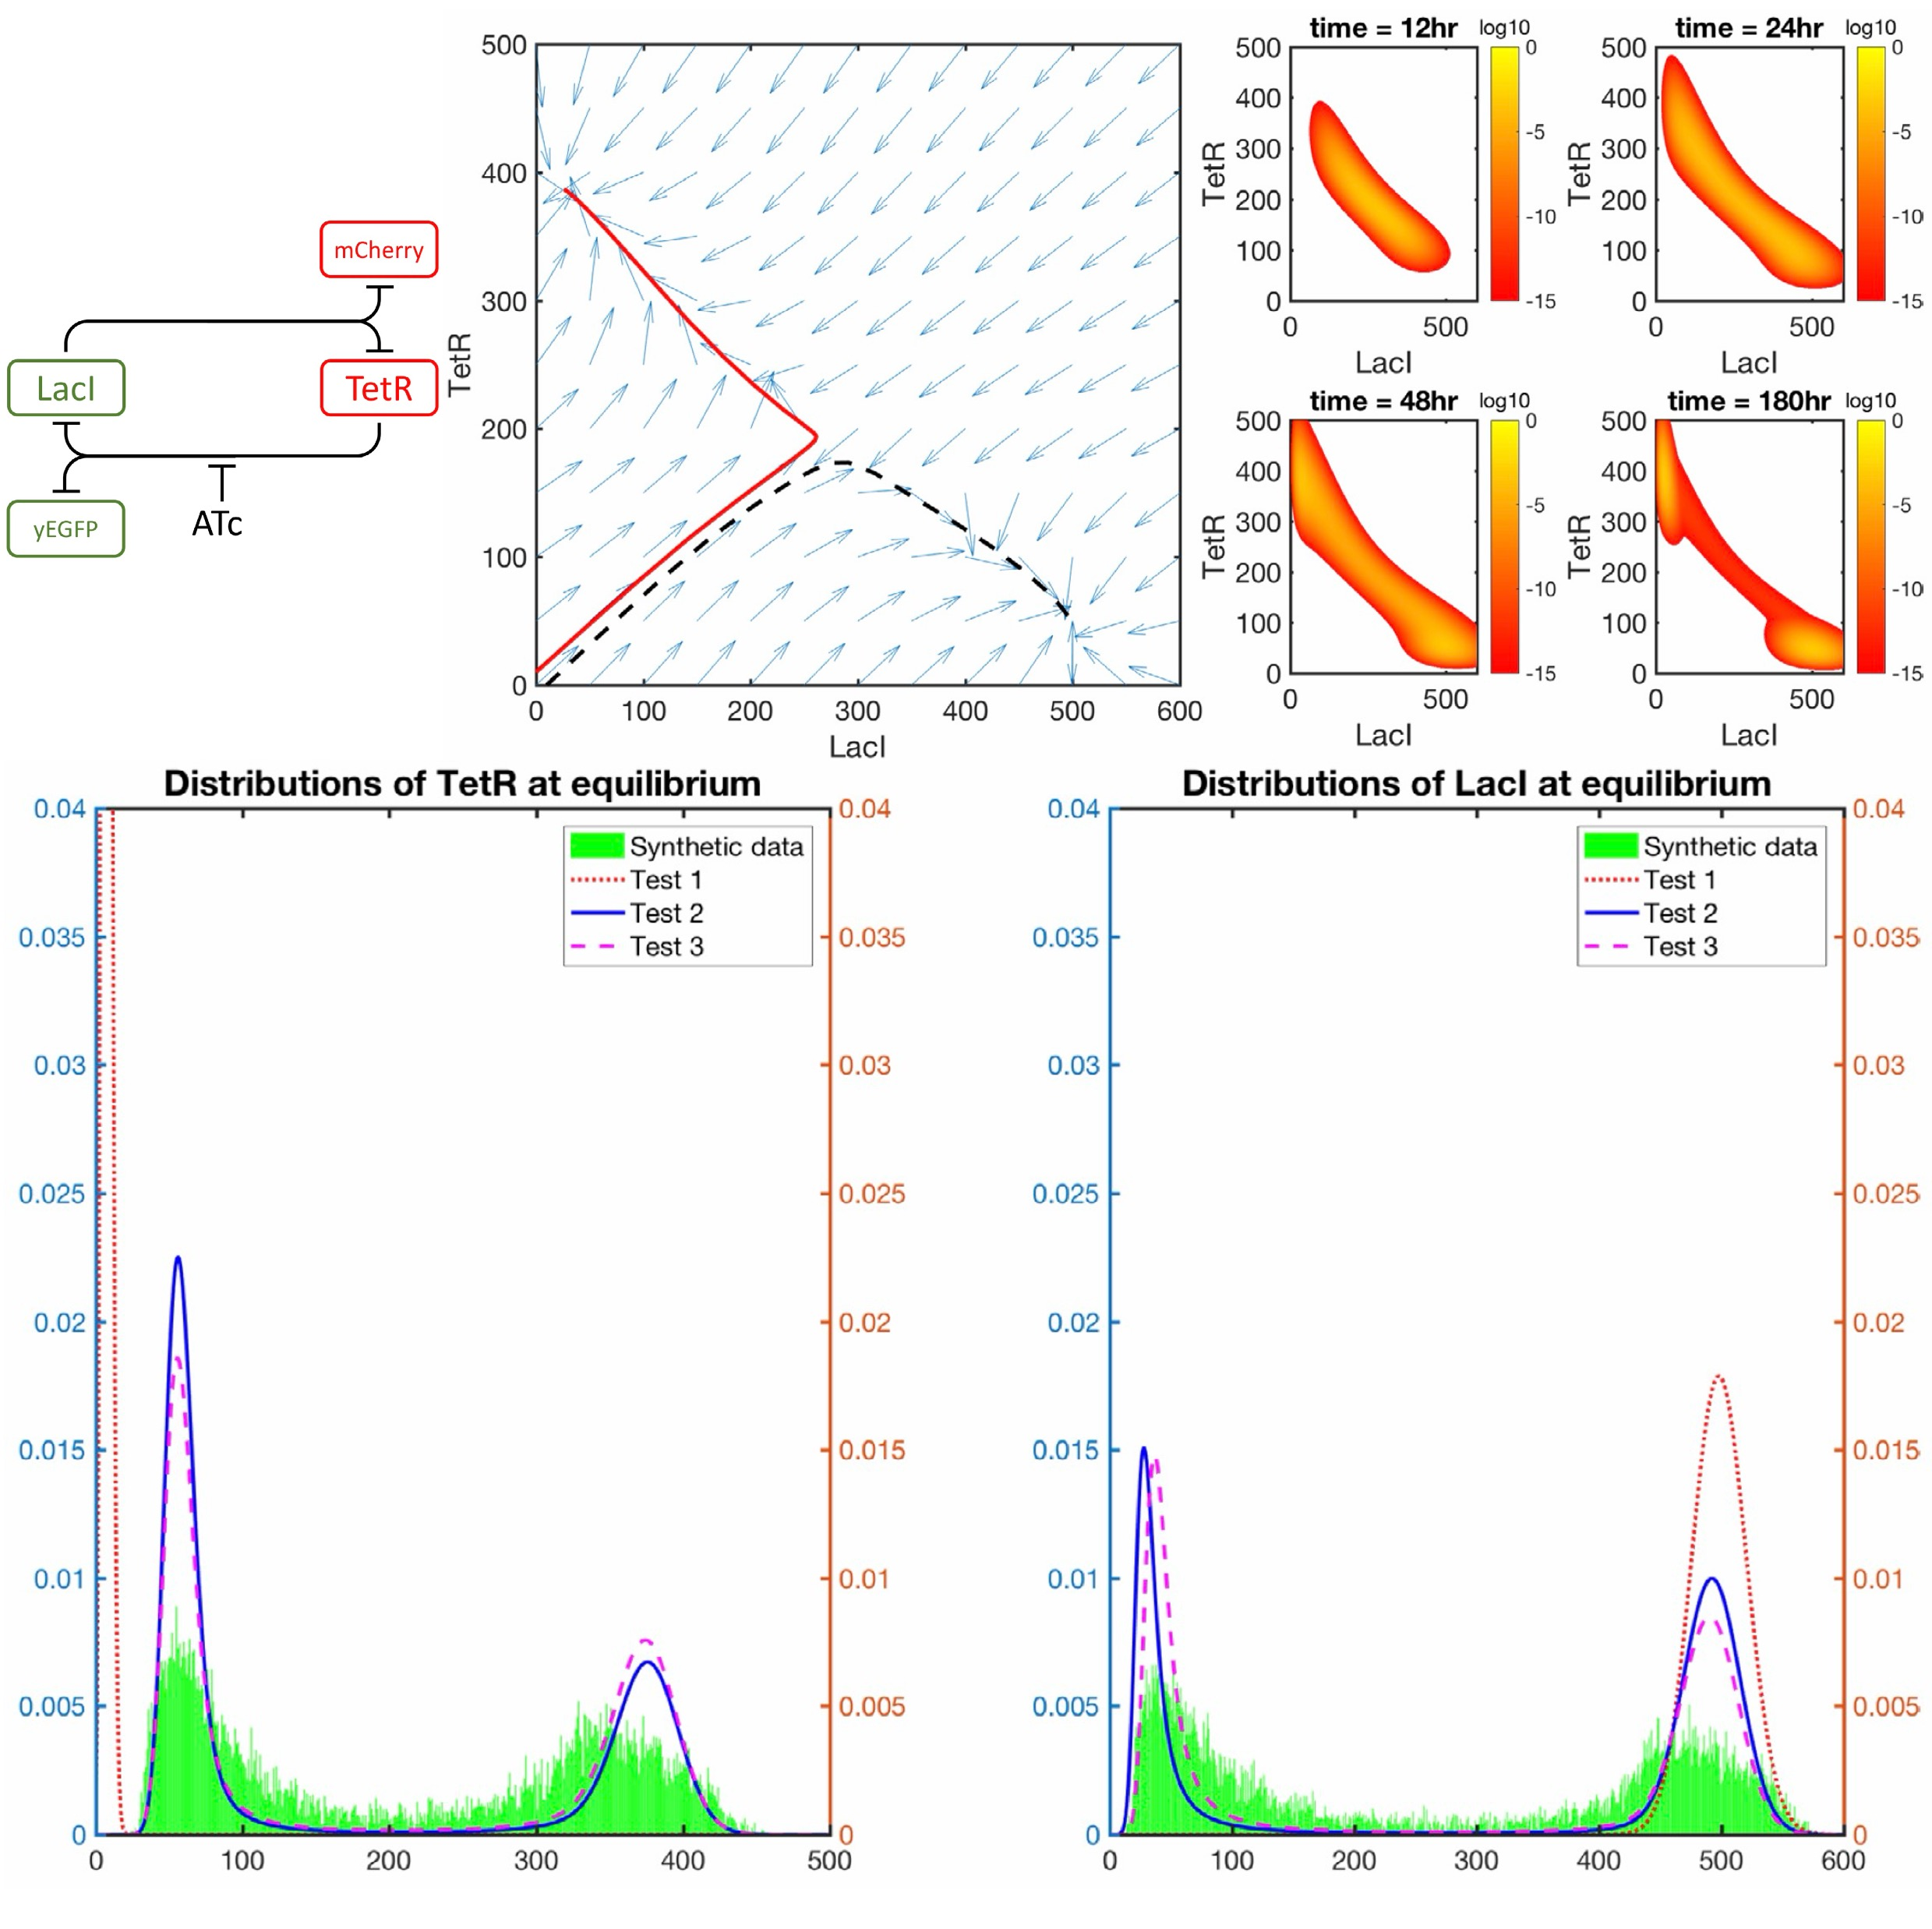
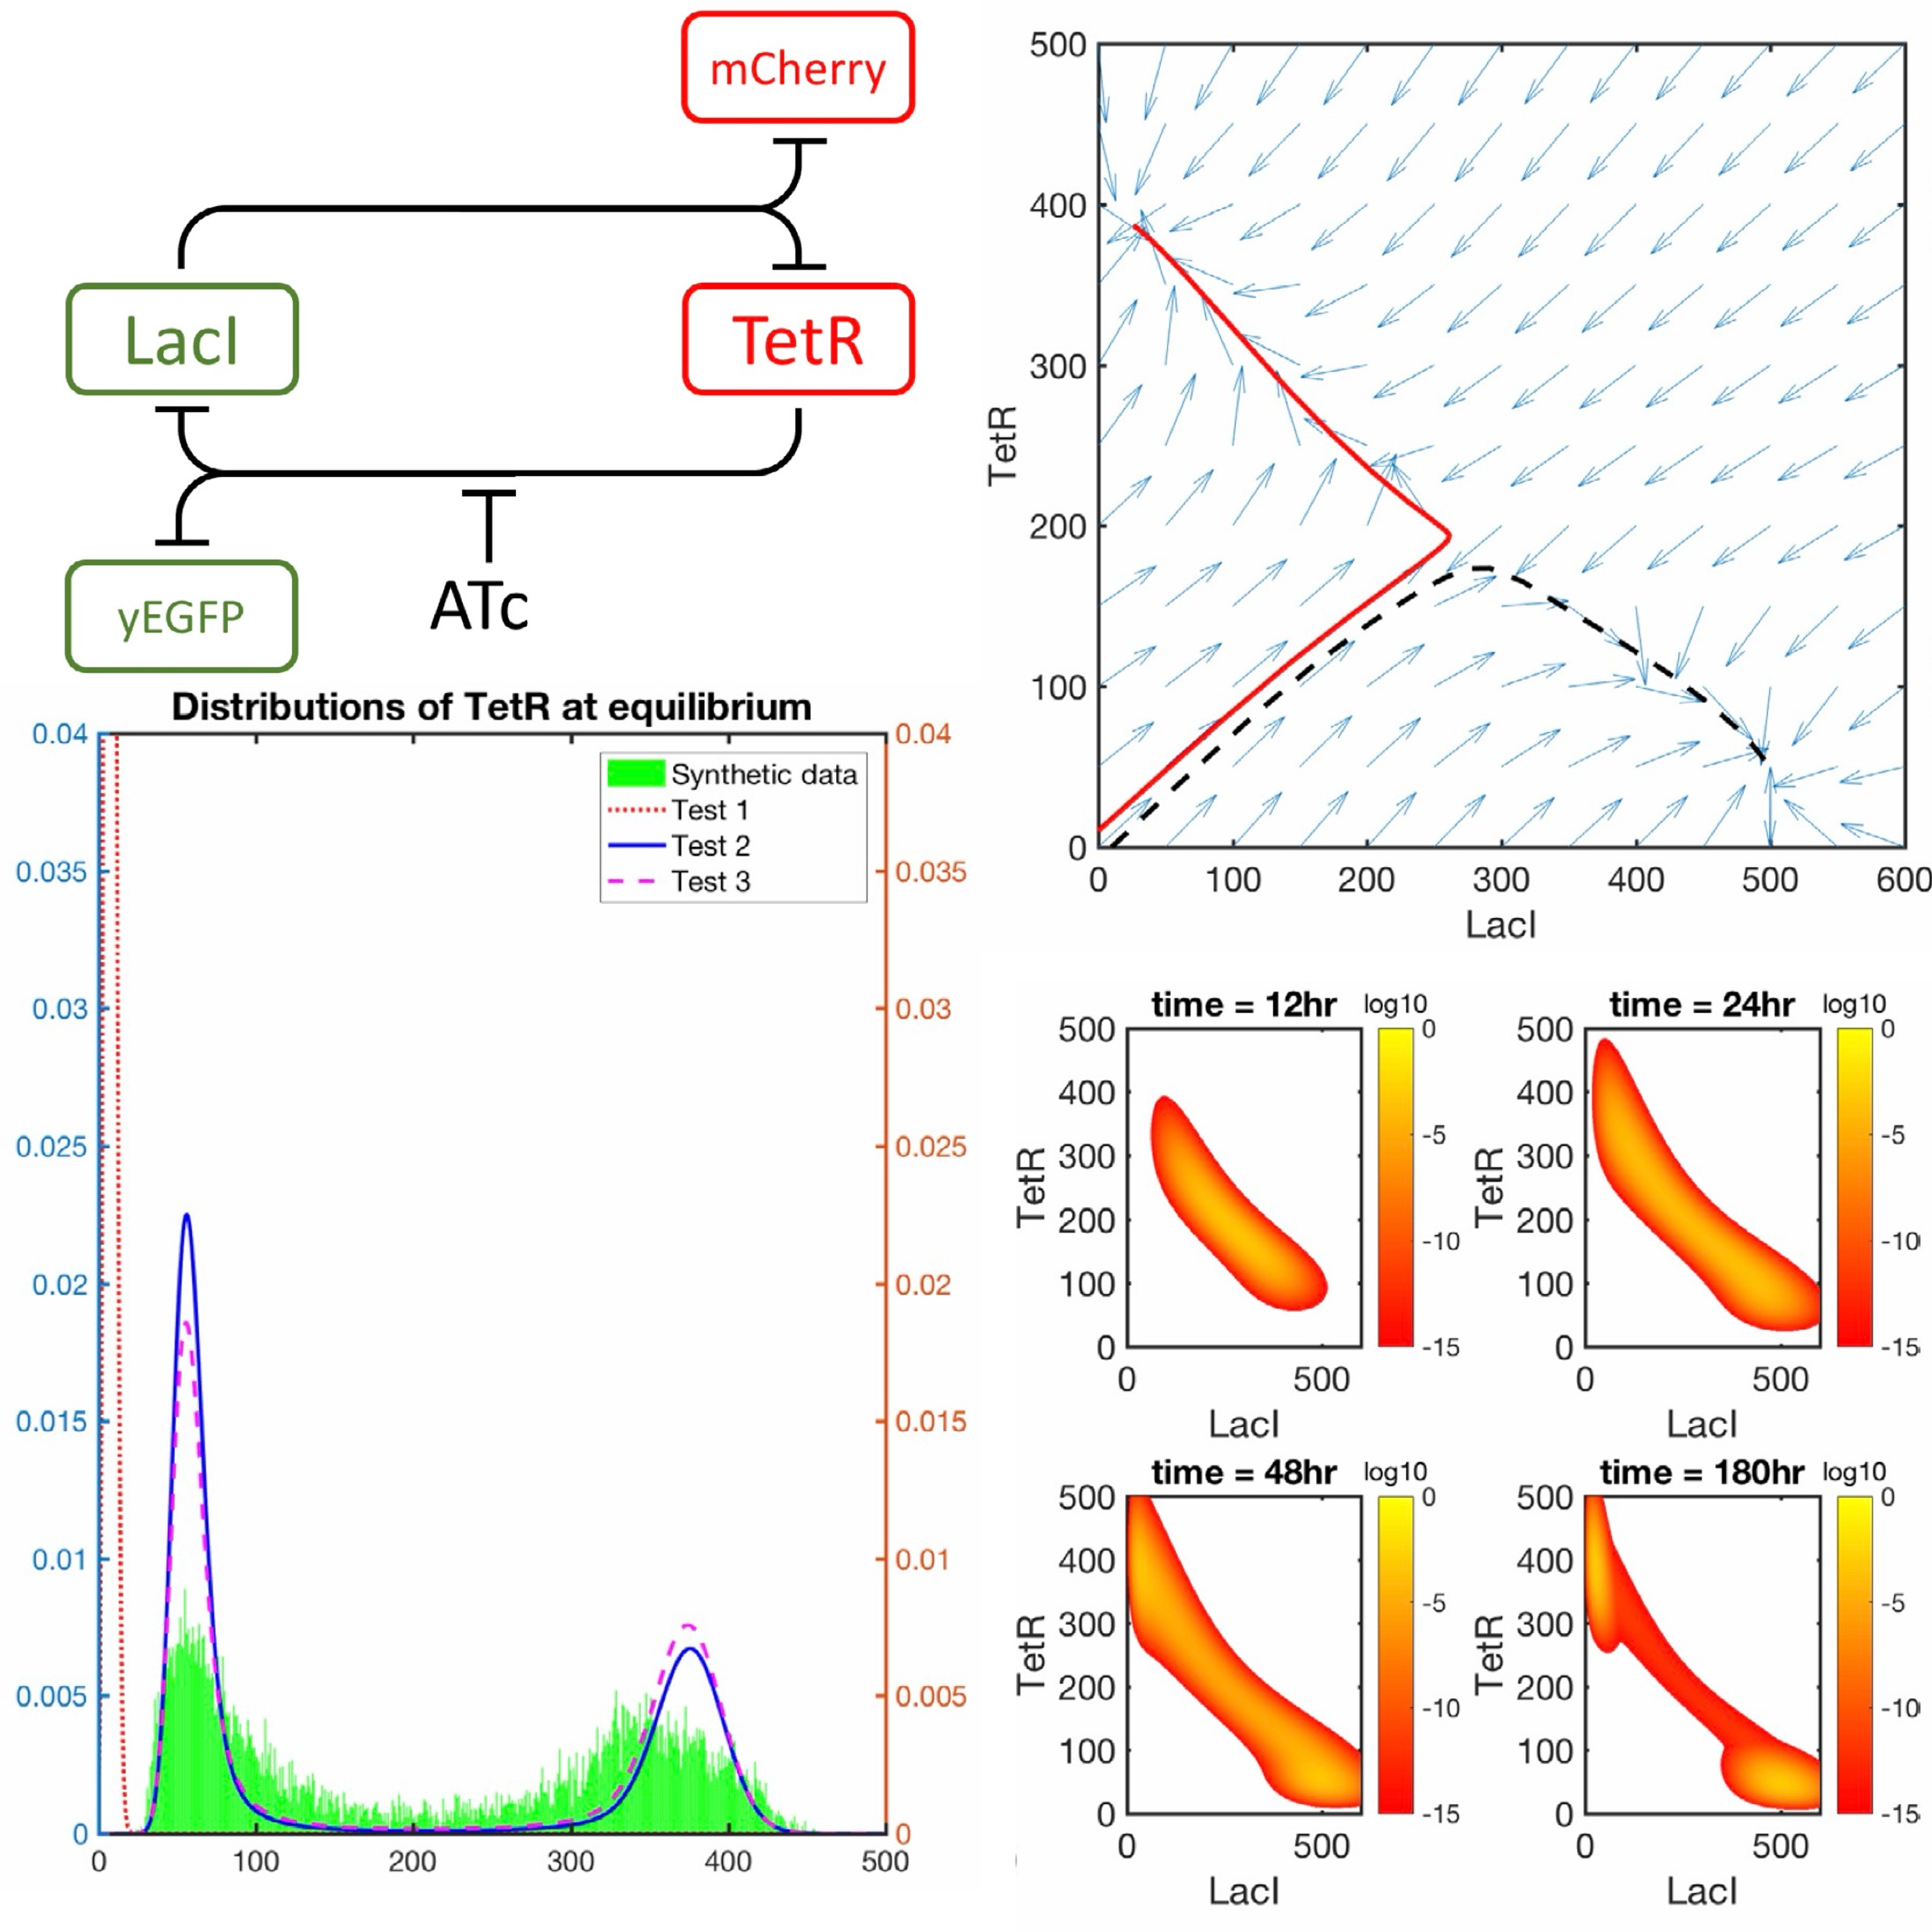
Deploying to gh-pages from @ dinhngockhanh/dinhngockhanh.github.io@ae2deab38dc53b1a31b27f5fea3b65fdf5d325b4 🚀

Changed region(s): [[0.0, 0.0, 1.0, 0.9956]]

diff --git a/blog/2024/tabs/index.html b/blog/2024/tabs/index.html
@@ -13,13 +13,13 @@ Content 2
 <span class="cp">{%</span><span class="w"> </span><span class="nt">endtab</span><span class="w"> </span><span class="cp">%}</span>
 
 <span class="cp">{%</span><span class="w"> </span><span class="nt">endtabs</span><span class="w"> </span><span class="cp">%}</span>
-</code></pre></div></div> <p>With this you can generate visualizations like:</p> <ul id="log" class="tab" data-tab="e9afd3d8-e065-45c2-98f9-eb2a88956e2f" data-name="log"> <li class="active" id="log-php"> <a href="#">php </a> </li> <li id="log-js"> <a href="#">js </a> </li> <li id="log-ruby"> <a href="#">ruby </a> </li> </ul> <ul class="tab-content" id="e9afd3d8-e065-45c2-98f9-eb2a88956e2f" data-name="log"> <li class="active"> <div class="language-php highlighter-rouge"><div class="highlight"><pre class="highlight"><code><span class="nb">var_dump</span><span class="p">(</span><span class="s1">'hello'</span><span class="p">);</span>
+</code></pre></div></div> <p>With this you can generate visualizations like:</p> <ul id="log" class="tab" data-tab="d2bec619-b2af-497f-adf7-388eb8d75173" data-name="log"> <li class="active" id="log-php"> <a href="#">php </a> </li> <li id="log-js"> <a href="#">js </a> </li> <li id="log-ruby"> <a href="#">ruby </a> </li> </ul> <ul class="tab-content" id="d2bec619-b2af-497f-adf7-388eb8d75173" data-name="log"> <li class="active"> <div class="language-php highlighter-rouge"><div class="highlight"><pre class="highlight"><code><span class="nb">var_dump</span><span class="p">(</span><span class="s1">'hello'</span><span class="p">);</span>
 </code></pre></div></div> </li> <li> <div class="language-javascript highlighter-rouge"><div class="highlight"><pre class="highlight"><code><span class="nx">console</span><span class="p">.</span><span class="nf">log</span><span class="p">(</span><span class="dl">"</span><span class="s2">hello</span><span class="dl">"</span><span class="p">);</span>
 </code></pre></div></div> </li> <li> <div class="language-javascript highlighter-rouge"><div class="highlight"><pre class="highlight"><code><span class="nx">pputs</span> <span class="dl">'</span><span class="s1">hello</span><span class="dl">'</span>
-</code></pre></div></div> </li> </ul> <h2 id="another-example">Another example</h2> <ul id="data-struct" class="tab" data-tab="391a548f-536c-4866-9ea5-2119e466957c" data-name="data-struct"> <li class="active" id="data-struct-yaml"> <a href="#">yaml </a> </li> <li id="data-struct-json"> <a href="#">json </a> </li> </ul> <ul class="tab-content" id="391a548f-536c-4866-9ea5-2119e466957c" data-name="data-struct"> <li class="active"> <div class="language-yaml highlighter-rouge"><div class="highlight"><pre class="highlight"><code><span class="na">hello</span><span class="pi">:</span>
+</code></pre></div></div> </li> </ul> <h2 id="another-example">Another example</h2> <ul id="data-struct" class="tab" data-tab="48d6b80f-5f95-4f32-8628-6de86ee31628" data-name="data-struct"> <li class="active" id="data-struct-yaml"> <a href="#">yaml </a> </li> <li id="data-struct-json"> <a href="#">json </a> </li> </ul> <ul class="tab-content" id="48d6b80f-5f95-4f32-8628-6de86ee31628" data-name="data-struct"> <li class="active"> <div class="language-yaml highlighter-rouge"><div class="highlight"><pre class="highlight"><code><span class="na">hello</span><span class="pi">:</span>
   <span class="pi">-</span> <span class="s2">"</span><span class="s">whatsup"</span>
   <span class="pi">-</span> <span class="s2">"</span><span class="s">hi"</span>
 </code></pre></div></div> </li> <li> <div class="language-json highlighter-rouge"><div class="highlight"><pre class="highlight"><code><span class="p">{</span><span class="w">
   </span><span class="nl">"hello"</span><span class="p">:</span><span class="w"> </span><span class="p">[</span><span class="s2">"whatsup"</span><span class="p">,</span><span class="w"> </span><span class="s2">"hi"</span><span class="p">]</span><span class="w">
 </span><span class="p">}</span><span class="w">
-</span></code></pre></div></div> </li> </ul> <h2 id="tabs-for-something-else">Tabs for something else</h2> <ul id="something-else" class="tab" data-tab="921244fe-60dc-4a0e-8bc8-7d7858f53e63" data-name="something-else"> <li class="active" id="something-else-text"> <a href="#">text </a> </li> <li id="something-else-quote"> <a href="#">quote </a> </li> <li id="something-else-list"> <a href="#">list </a> </li> </ul> <ul class="tab-content" id="921244fe-60dc-4a0e-8bc8-7d7858f53e63" data-name="something-else"> <li class="active"> <p>Regular text</p> </li> <li> <blockquote> <p>A quote</p> </blockquote> </li> <li> <p>Hipster list</p> <ul> <li>brunch</li> <li>fixie</li> <li>raybans</li> <li>messenger bag</li> </ul> </li> </ul> </div> </article> <br> <hr> <br> <ul class="list-disc pl-8"></ul> <h2 class="text-3xl font-semibold mb-4 mt-12">Enjoy Reading This Article?</h2> <p class="mb-2">Here are some more articles you might like to read next:</p> <li class="my-2"> <a class="text-pink-700 underline font-semibold hover:text-pink-800" href="/blog/2024/google-gemini-updates-flash-15-gemma-2-and-project-astra/">Google Gemini updates: Flash 1.5, Gemma 2 and Project Astra</a> </li> <li class="my-2"> <a class="text-pink-700 underline font-semibold hover:text-pink-800" href="/blog/2022/displaying-external-posts-on-your-al-folio-blog/">Displaying External Posts on Your al-folio Blog</a> </li> <li class="my-2"> <a class="text-pink-700 underline font-semibold hover:text-pink-800" href="/blog/2024/typograms/">a post with typograms</a> </li> <li class="my-2"> <a class="text-pink-700 underline font-semibold hover:text-pink-800" href="/blog/2024/post-citation/">a post that can be cited</a> </li> <li class="my-2"> <a class="text-pink-700 underline font-semibold hover:text-pink-800" href="/blog/2024/pseudocode/">a post with pseudo code</a> </li> </div> </div> <footer class="fixed-bottom" role="contentinfo"> <div class="container mt-0"> © Copyright 2026 Khanh N. Dinh. Last updated: May 09, 2026. </div> </footer> <script src="https://cdn.jsdelivr.net/npm/jquery@3.6.0/dist/jquery.min.js" integrity="sha256-/xUj+3OJU5yExlq6GSYGSHk7tPXikynS7ogEvDej/m4=" crossorigin="anonymous"></script> <script src="/assets/js/bootstrap.bundle.min.js"></script> <script src="https://cdn.jsdelivr.net/npm/mdbootstrap@4.20.0/js/mdb.min.js" integrity="sha256-NdbiivsvWt7VYCt6hYNT3h/th9vSTL4EDWeGs5SN3DA=" crossorigin="anonymous"></script> <script defer src="https://cdn.jsdelivr.net/npm/masonry-layout@4.2.2/dist/masonry.pkgd.min.js" integrity="sha256-Nn1q/fx0H7SNLZMQ5Hw5JLaTRZp0yILA/FRexe19VdI=" crossorigin="anonymous"></script> <script defer src="https://cdn.jsdelivr.net/npm/imagesloaded@5.0.0/imagesloaded.pkgd.min.js" integrity="sha256-htrLFfZJ6v5udOG+3kNLINIKh2gvoKqwEhHYfTTMICc=" crossorigin="anonymous"></script> <script defer src="/assets/js/masonry.js" type="text/javascript"></script> <script defer src="https://cdn.jsdelivr.net/npm/medium-zoom@1.1.0/dist/medium-zoom.min.js" integrity="sha256-ZgMyDAIYDYGxbcpJcfUnYwNevG/xi9OHKaR/8GK+jWc=" crossorigin="anonymous"></script> <script defer src="/assets/js/zoom.js?85ddb88934d28b74e78031fd54cf8308"></script> <script src="/assets/js/no_defer.js?2781658a0a2b13ed609542042a859126"></script> <script defer src="/assets/js/common.js?e0514a05c5c95ac1a93a8dfd5249b92e"></script> <script defer src="/assets/js/copy_code.js?12775fdf7f95e901d7119054556e495f" type="text/javascript"></script> <script defer src="/assets/js/jupyter_new_tab.js?d9f17b6adc2311cbabd747f4538bb15f"></script> <script async src="https://d1bxh8uas1mnw7.cloudfront.net/assets/embed.js"></script> <script async src="https://badge.dimensions.ai/badge.js"></script> <script type="text/javascript">window.MathJax={tex:{tags:"ams"}};</script> <script defer type="text/javascript" id="MathJax-script" src="https://cdn.jsdelivr.net/npm/mathjax@3.2.2/es5/tex-mml-chtml.js" integrity="sha256-MASABpB4tYktI2Oitl4t+78w/lyA+D7b/s9GEP0JOGI=" crossorigin="anonymous"></script> <script defer src="https://cdnjs.cloudflare.com/polyfill/v3/polyfill.min.js?features=es6" crossorigin="anonymous"></script> <script type="text/javascript">function progressBarSetup(){"max"in document.createElement("progress")?(initializeProgressElement(),$(document).on("scroll",function(){progressBar.attr({value:getCurrentScrollPosition()})}),$(window).on("resize",initializeProgressElement)):(resizeProgressBar(),$(document).on("scroll",resizeProgressBar),$(window).on("resize",resizeProgressBar))}function getCurrentScrollPosition(){return $(window).scrollTop()}function initializeProgressElement(){let e=$("#navbar").outerHeight(!0);$("body").css({"padding-top":e}),$("progress-container").css({"padding-top":e}),progressBar.css({top:e}),progressBar.attr({max:getDistanceToScroll(),value:getCurrentScrollPosition()})}function getDistanceToScroll(){return $(document).height()-$(window).height()}function resizeProgressBar(){progressBar.css({width:getWidthPercentage()+"%"})}function getWidthPercentage(){return getCurrentScrollPosition()/getDistanceToScroll()*100}const progressBar=$("#progress");window.onload=function(){setTimeout(progressBarSetup,50)};</script> <script src="/assets/js/tabs.min.js?b8748955e1076bbe0dabcf28f2549fdc"></script> <script src="/assets/js/vanilla-back-to-top.min.js?f40d453793ff4f64e238e420181a1d17"></script> <script>addBackToTop();</script> </body> </html>
+</span></code></pre></div></div> </li> </ul> <h2 id="tabs-for-something-else">Tabs for something else</h2> <ul id="something-else" class="tab" data-tab="34058504-1d07-4f0f-9540-9468e063f328" data-name="something-else"> <li class="active" id="something-else-text"> <a href="#">text </a> </li> <li id="something-else-quote"> <a href="#">quote </a> </li> <li id="something-else-list"> <a href="#">list </a> </li> </ul> <ul class="tab-content" id="34058504-1d07-4f0f-9540-9468e063f328" data-name="something-else"> <li class="active"> <p>Regular text</p> </li> <li> <blockquote> <p>A quote</p> </blockquote> </li> <li> <p>Hipster list</p> <ul> <li>brunch</li> <li>fixie</li> <li>raybans</li> <li>messenger bag</li> </ul> </li> </ul> </div> </article> <br> <hr> <br> <ul class="list-disc pl-8"></ul> <h2 class="text-3xl font-semibold mb-4 mt-12">Enjoy Reading This Article?</h2> <p class="mb-2">Here are some more articles you might like to read next:</p> <li class="my-2"> <a class="text-pink-700 underline font-semibold hover:text-pink-800" href="/blog/2024/google-gemini-updates-flash-15-gemma-2-and-project-astra/">Google Gemini updates: Flash 1.5, Gemma 2 and Project Astra</a> </li> <li class="my-2"> <a class="text-pink-700 underline font-semibold hover:text-pink-800" href="/blog/2022/displaying-external-posts-on-your-al-folio-blog/">Displaying External Posts on Your al-folio Blog</a> </li> <li class="my-2"> <a class="text-pink-700 underline font-semibold hover:text-pink-800" href="/blog/2024/typograms/">a post with typograms</a> </li> <li class="my-2"> <a class="text-pink-700 underline font-semibold hover:text-pink-800" href="/blog/2024/post-citation/">a post that can be cited</a> </li> <li class="my-2"> <a class="text-pink-700 underline font-semibold hover:text-pink-800" href="/blog/2024/pseudocode/">a post with pseudo code</a> </li> </div> </div> <footer class="fixed-bottom" role="contentinfo"> <div class="container mt-0"> © Copyright 2026 Khanh N. Dinh. Last updated: May 09, 2026. </div> </footer> <script src="https://cdn.jsdelivr.net/npm/jquery@3.6.0/dist/jquery.min.js" integrity="sha256-/xUj+3OJU5yExlq6GSYGSHk7tPXikynS7ogEvDej/m4=" crossorigin="anonymous"></script> <script src="/assets/js/bootstrap.bundle.min.js"></script> <script src="https://cdn.jsdelivr.net/npm/mdbootstrap@4.20.0/js/mdb.min.js" integrity="sha256-NdbiivsvWt7VYCt6hYNT3h/th9vSTL4EDWeGs5SN3DA=" crossorigin="anonymous"></script> <script defer src="https://cdn.jsdelivr.net/npm/masonry-layout@4.2.2/dist/masonry.pkgd.min.js" integrity="sha256-Nn1q/fx0H7SNLZMQ5Hw5JLaTRZp0yILA/FRexe19VdI=" crossorigin="anonymous"></script> <script defer src="https://cdn.jsdelivr.net/npm/imagesloaded@5.0.0/imagesloaded.pkgd.min.js" integrity="sha256-htrLFfZJ6v5udOG+3kNLINIKh2gvoKqwEhHYfTTMICc=" crossorigin="anonymous"></script> <script defer src="/assets/js/masonry.js" type="text/javascript"></script> <script defer src="https://cdn.jsdelivr.net/npm/medium-zoom@1.1.0/dist/medium-zoom.min.js" integrity="sha256-ZgMyDAIYDYGxbcpJcfUnYwNevG/xi9OHKaR/8GK+jWc=" crossorigin="anonymous"></script> <script defer src="/assets/js/zoom.js?85ddb88934d28b74e78031fd54cf8308"></script> <script src="/assets/js/no_defer.js?2781658a0a2b13ed609542042a859126"></script> <script defer src="/assets/js/common.js?e0514a05c5c95ac1a93a8dfd5249b92e"></script> <script defer src="/assets/js/copy_code.js?12775fdf7f95e901d7119054556e495f" type="text/javascript"></script> <script defer src="/assets/js/jupyter_new_tab.js?d9f17b6adc2311cbabd747f4538bb15f"></script> <script async src="https://d1bxh8uas1mnw7.cloudfront.net/assets/embed.js"></script> <script async src="https://badge.dimensions.ai/badge.js"></script> <script type="text/javascript">window.MathJax={tex:{tags:"ams"}};</script> <script defer type="text/javascript" id="MathJax-script" src="https://cdn.jsdelivr.net/npm/mathjax@3.2.2/es5/tex-mml-chtml.js" integrity="sha256-MASABpB4tYktI2Oitl4t+78w/lyA+D7b/s9GEP0JOGI=" crossorigin="anonymous"></script> <script defer src="https://cdnjs.cloudflare.com/polyfill/v3/polyfill.min.js?features=es6" crossorigin="anonymous"></script> <script type="text/javascript">function progressBarSetup(){"max"in document.createElement("progress")?(initializeProgressElement(),$(document).on("scroll",function(){progressBar.attr({value:getCurrentScrollPosition()})}),$(window).on("resize",initializeProgressElement)):(resizeProgressBar(),$(document).on("scroll",resizeProgressBar),$(window).on("resize",resizeProgressBar))}function getCurrentScrollPosition(){return $(window).scrollTop()}function initializeProgressElement(){let e=$("#navbar").outerHeight(!0);$("body").css({"padding-top":e}),$("progress-container").css({"padding-top":e}),progressBar.css({top:e}),progressBar.attr({max:getDistanceToScroll(),value:getCurrentScrollPosition()})}function getDistanceToScroll(){return $(document).height()-$(window).height()}function resizeProgressBar(){progressBar.css({width:getWidthPercentage()+"%"})}function getWidthPercentage(){return getCurrentScrollPosition()/getDistanceToScroll()*100}const progressBar=$("#progress");window.onload=function(){setTimeout(progressBarSetup,50)};</script> <script src="/assets/js/tabs.min.js?b8748955e1076bbe0dabcf28f2549fdc"></script> <script src="/assets/js/vanilla-back-to-top.min.js?f40d453793ff4f64e238e420181a1d17"></script> <script>addBackToTop();</script> </body> </html>